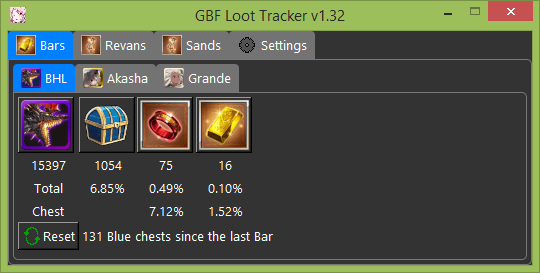
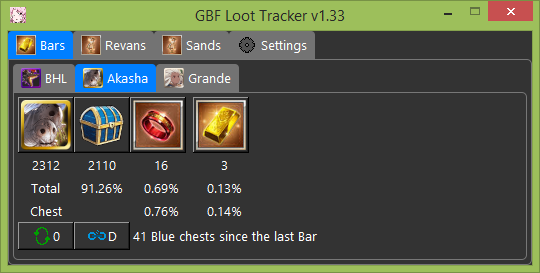
1.33 multi-window

diff --git a/readme.md b/readme.md
@@ -9,6 +9,7 @@
 * Light and Dark themes based on the [Azure TTK Theme](https://github.com/rdbende/Azure-ttk-theme) and the [Forest TTK Theme](https://github.com/rdbende/Forest-ttk-theme).  
 * Customizable layout.  
 * Keyboard shortcuts.  
+* Multi-Window support.  
 * Global statistics.  
 * Auto updater.  
 * and more...  
@@ -66,7 +67,7 @@ There are two ways to edit the `assets/raids.json` files:
   
 - **The Easier Way:**  
   
-Under the `settings` tab of the tracker, press the button `Layout Editor` to open an interface allowing you to edit `assets/raids.json`. Alternatively, press the `E` key on your keyboard..  
+Under the `settings` tab of the tracker, press the button `Layout Editor` to open an interface allowing you to edit `assets/raids.json`. Alternatively, press the `E` key on your keyboard.  
 ![Editor Preview](https://raw.githubusercontent.com/MizaGBF/GBFLT/main/assets/preview3.png)  
 - On the top area, you can edit a tab `Text` and `Image` values (the image must be a 20x20 pixels PNG file in the `assets/tabs` folder).  
 - Clicking on a tab `Edit`button lets you open its content in the bottom area.  
